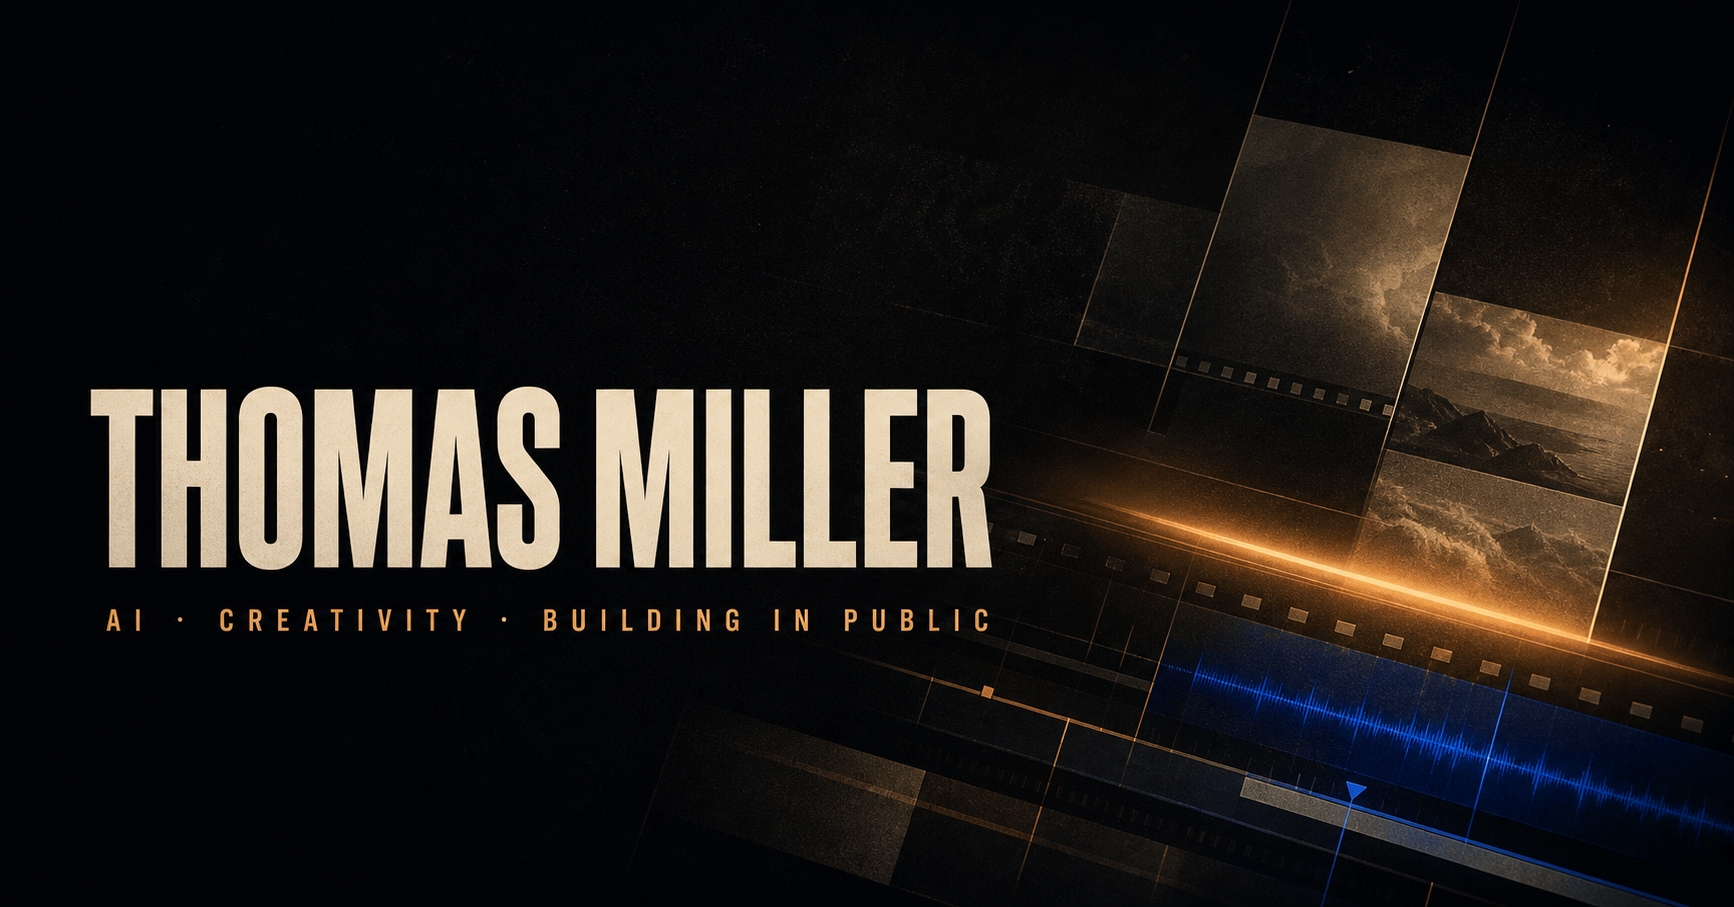
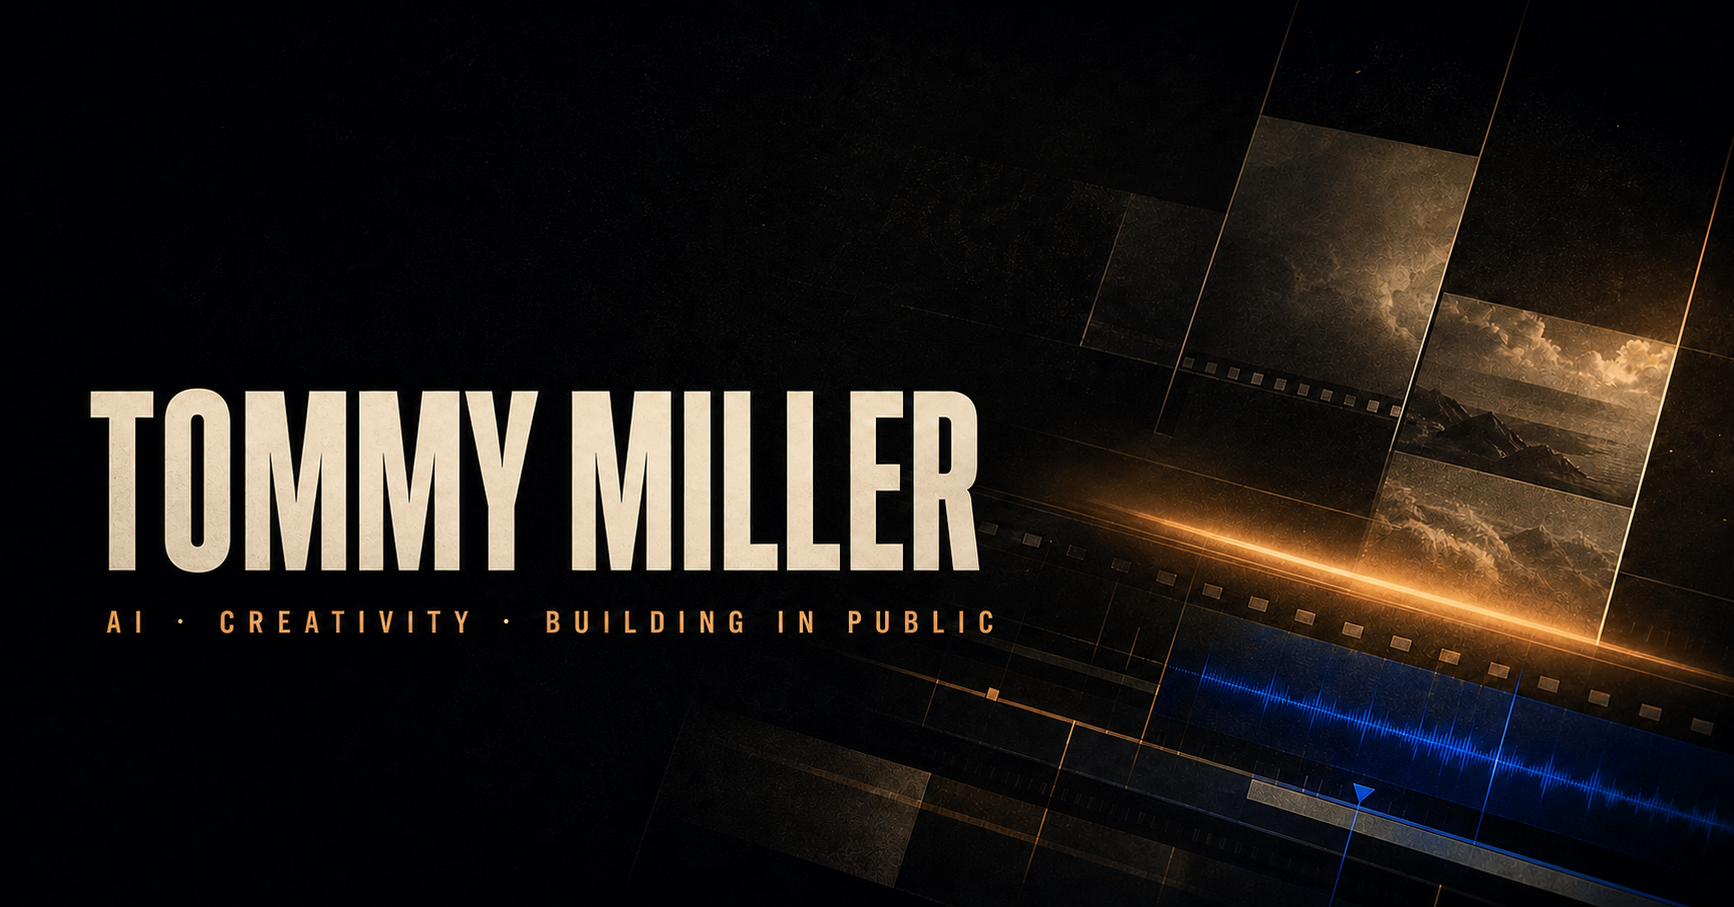
Use Tommy for public-facing name

diff --git a/app/page.tsx b/app/page.tsx
@@ -4,7 +4,7 @@ export default function Home() {
   return (
     <main>
       <nav className="nav" aria-label="Primary navigation">
-        <a className="wordmark" href="#top" aria-label="Thomas Miller, home">
+        <a className="wordmark" href="#top" aria-label="Tommy Miller, home">
           TM<span>.</span>
         </a>
         <div className="navLinks">
@@ -25,7 +25,7 @@ export default function Home() {
           <em>Building with intention.</em>
         </h1>
         <p className="heroCopy">
-          I&apos;m Thomas Miller. My focus is building trusted data foundations
+          I&apos;m Tommy Miller. My focus is building trusted data foundations
           and finding practical uses for AI that simplify workflows, eliminate
           tedious tasks, and make reliable information easier to use.
         </p>
@@ -93,7 +93,7 @@ export default function Home() {
               href="https://github.com/mille880"
               target="_blank"
               rel="noreferrer"
-              aria-label="View Thomas Miller's GitHub profile"
+              aria-label="View Tommy Miller's GitHub profile"
             >
               View on GitHub <Arrow />
             </a>
@@ -164,7 +164,7 @@ export default function Home() {
       </section>
 
       <footer>
-        <span>© {new Date().getFullYear()} Thomas Miller</span>
+        <span>© {new Date().getFullYear()} Tommy Miller</span>
         <span>Designed to evolve.</span>
       </footer>
     </main>

diff --git a/app/layout.tsx b/app/layout.tsx
@@ -14,21 +14,21 @@ const geistMono = Geist_Mono({
 
 export const metadata: Metadata = {
   metadataBase: new URL("https://mille880.github.io"),
-  title: "Thomas Miller — AI, creativity & building in public",
+  title: "Tommy Miller — AI, creativity & building in public",
   description:
-    "Thomas Miller's home for exploring practical AI, creative technology, and a return to video storytelling.",
+    "Tommy Miller's home for exploring practical AI, creative technology, and a return to video storytelling.",
   openGraph: {
-    title: "Thomas Miller — AI, creativity & building in public",
+    title: "Tommy Miller — AI, creativity & building in public",
     description:
       "Exploring practical AI, creative technology, and a return to video storytelling.",
     url: "https://mille880.github.io",
-    siteName: "Thomas Miller",
+    siteName: "Tommy Miller",
     images: [{ url: "/og.png", width: 1734, height: 907 }],
     type: "website",
   },
   twitter: {
     card: "summary_large_image",
-    title: "Thomas Miller — AI, creativity & building in public",
+    title: "Tommy Miller — AI, creativity & building in public",
     description:
       "Exploring practical AI, creative technology, and a return to video storytelling.",
     images: ["/og.png"],

diff --git a/README.md b/README.md
@@ -1,4 +1,4 @@
-# Thomas Miller — Personal Website
+# Tommy Miller — Personal Website
 
 This repository contains the first version of my personal website: a place to
 explore practical uses for AI, trusted data foundations, and projects built in
